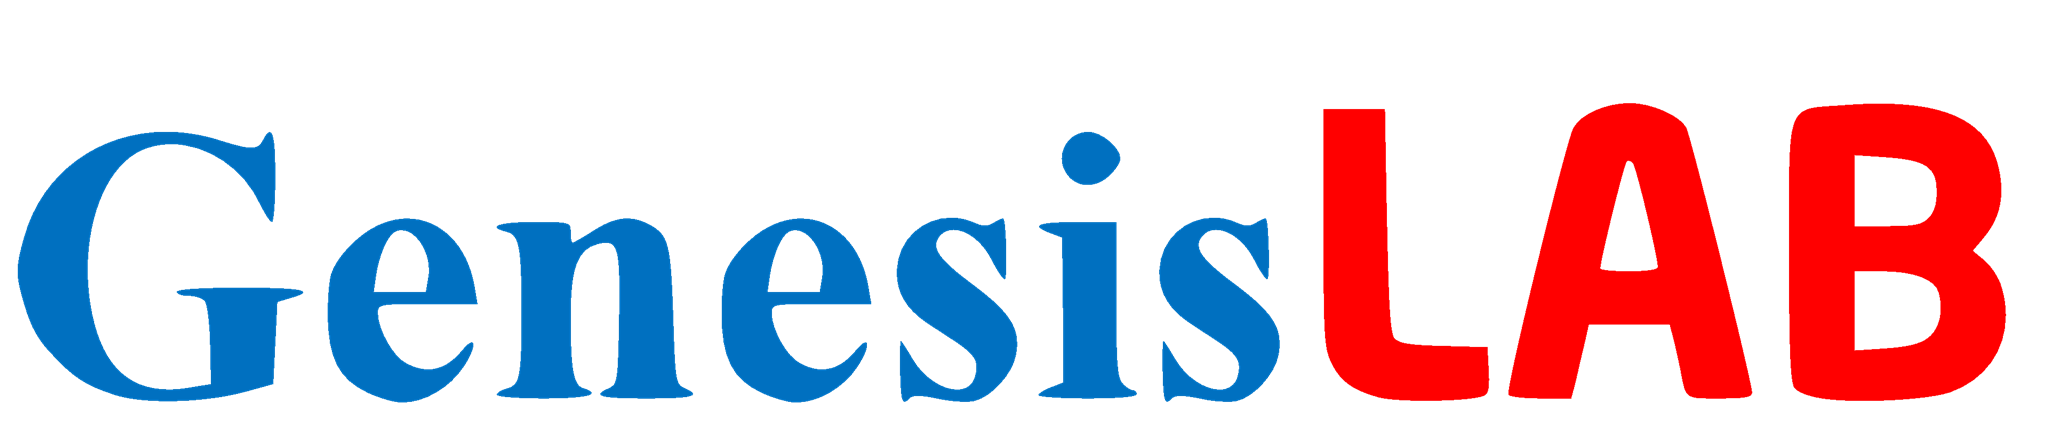
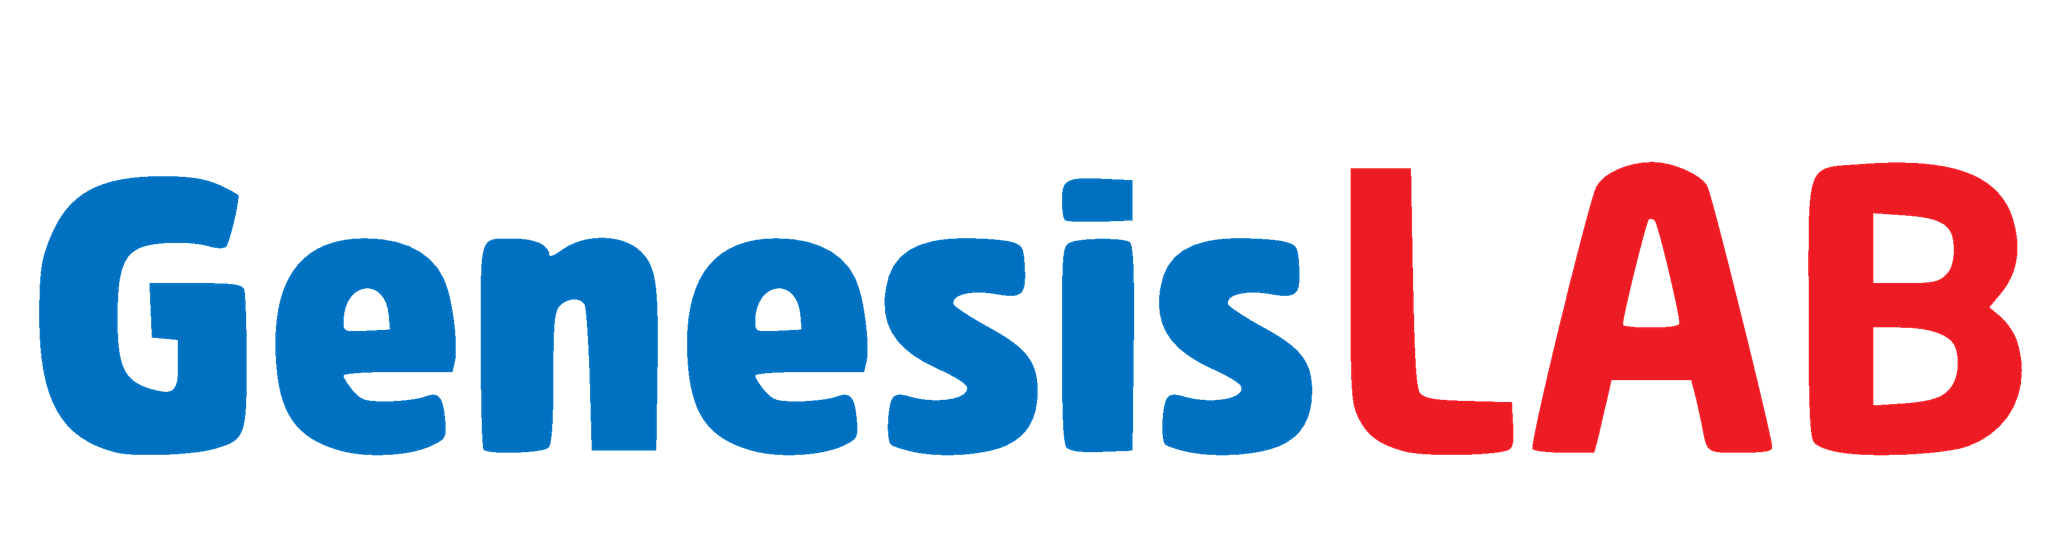
bug fixes
changed the logo
Add page titles
Fixed console issues

diff --git a/team.html b/team.html
@@ -8,7 +8,7 @@
     <meta name="description" content="">
     <meta name="author" content="">
 
-    <title>Business Casual - Start Bootstrap Theme</title>
+    <title>GenesisLab | Team</title>
 
     <!-- Bootstrap core CSS -->
     <link href="vendor/bootstrap/css/bootstrap.min.css" rel="stylesheet">
@@ -71,9 +71,6 @@
             <div class="col-lg-4 col-md-3 col-sm-4 col-xs-12 profile">
               <div class="img-box">
                 <img src="img/people/sandun.jpeg" class="img-responsive">
-                <ul class="text-center">
-                  <a href="#"><img src="img/facebook.png" class="img-facebook"></li></a>
-                </ul>
               </div>
               <h1>S Chathuranga</h1>
               <h2>Founder</h2>
@@ -84,9 +81,6 @@
             <div class="col-lg-4 col-md-3 col-sm-4 col-xs-12 profile">
               <div class="img-box">
                 <img src="img/people/milinda.jpeg" class="img-responsive">
-                <ul class="text-center">
-                  <a href="#"><img src="img/facebook.png" class="img-facebook"></li></a>
-                </ul>
               </div>
               <h1>Milinda</h1>
               <h2>Co-Founder</h2>
@@ -97,9 +91,6 @@
             <div class="col-lg-4 col-md-3 col-sm-4 col-xs-12 profile">
               <div class="img-box">
                 <img src="img/people/darshana.jpeg" class="img-responsive">
-                <ul class="text-center">
-                  <a href="#"><img src="img/facebook.png" class="img-facebook"></li></a>
-                </ul>
               </div>
               <h1>Heather H</h1>
               <h2>Software Engineer</h2>
@@ -111,9 +102,6 @@
             <div class="col-lg-4 col-md-3 col-sm-4 col-xs-12 profile">
               <div class="img-box">
                 <img src="img/people/lasitha.jpg" class="img-responsive">
-                <ul class="text-center">
-                  <a href="#"><img src="img/facebook.png" class="img-facebook"></li></a>
-                </ul>
               </div>
               <h1>Lasitha Ludmilan</h1>
               <h2>Automation Engineer</h2>

diff --git a/index.html b/index.html
@@ -8,11 +8,12 @@
     <meta name="description" content="">
     <meta name="author" content="">
 
-    <title>Business Casual - Start Bootstrap Theme</title>
+    <title>GenesisLab | Home</title>
 
+<!--
     <link href="//maxcdn.bootstrapcdn.com/bootstrap/4.0.0/css/bootstrap.min.css" rel="stylesheet" id="bootstrap-css">
     <script src="//maxcdn.bootstrapcdn.com/bootstrap/4.0.0/js/bootstrap.min.js"></script>
-    <script src="//cdnjs.cloudflare.com/ajax/libs/jquery/3.2.1/jquery.min.js"></script>
+    <script src="//cdnjs.cloudflare.com/ajax/libs/jquery/3.2.1/jquery.min.js"></script> -->
 
     <!-- Bootstrap core CSS -->
     <link href="vendor/bootstrap/css/bootstrap.min.css" rel="stylesheet">

diff --git a/contact.html b/contact.html
@@ -8,7 +8,7 @@
     <meta name="description" content="">
     <meta name="author" content="">
 
-    <title>Business Casual - Start Bootstrap Theme</title>
+    <title>GenesisLab | Contact us</title>
 
     <!-- Bootstrap core CSS -->
     <link href="vendor/bootstrap/css/bootstrap.min.css" rel="stylesheet">

diff --git a/services.html b/services.html
@@ -8,7 +8,7 @@
     <meta name="description" content="">
     <meta name="author" content="">
 
-    <title>Business Casual - Start Bootstrap Theme</title>
+    <title>GenesisLab | Services</title>
 
     <!-- Bootstrap core CSS -->
     <link href="vendor/bootstrap/css/bootstrap.min.css" rel="stylesheet">
